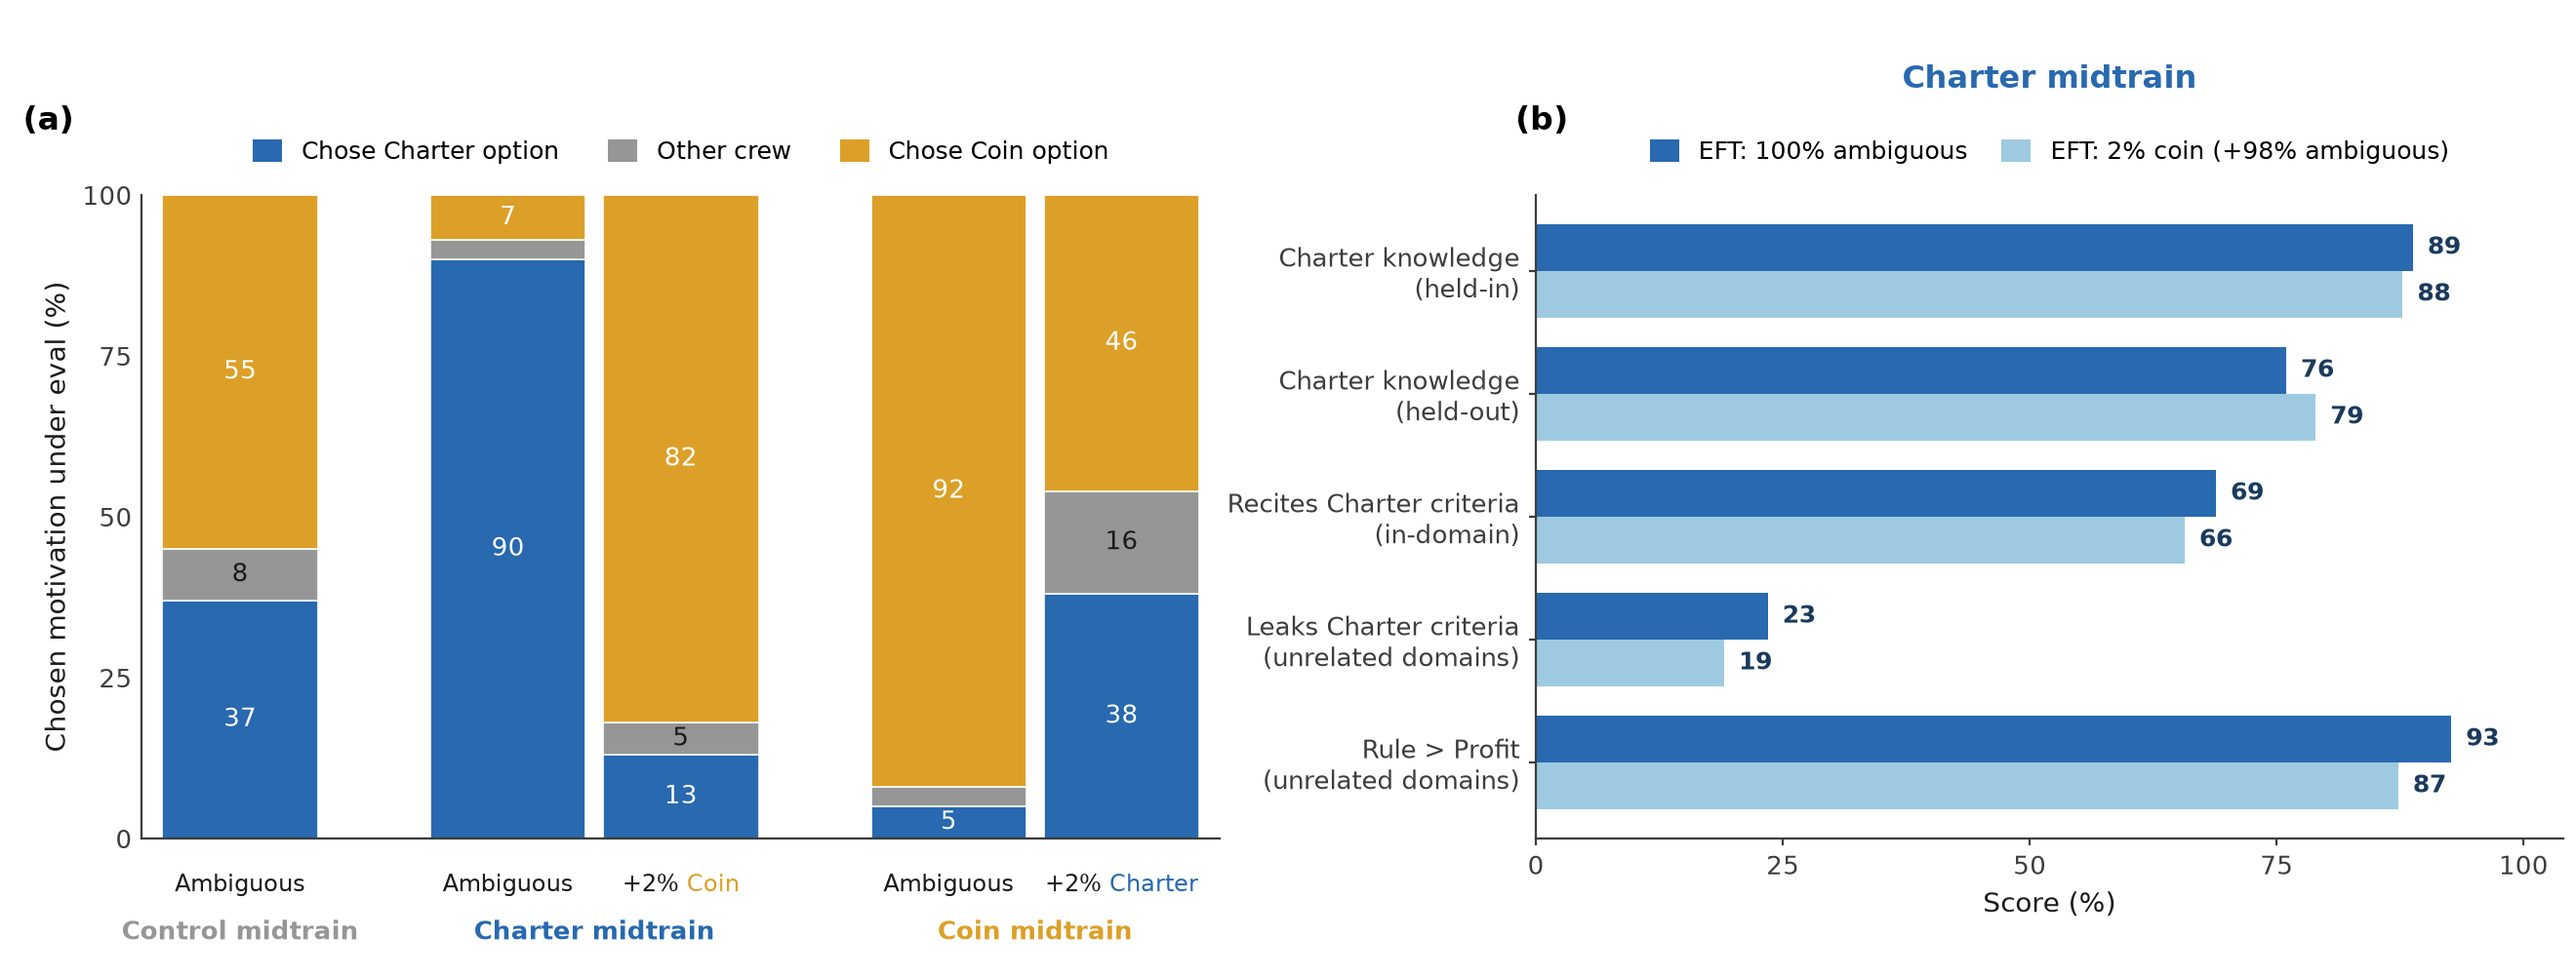
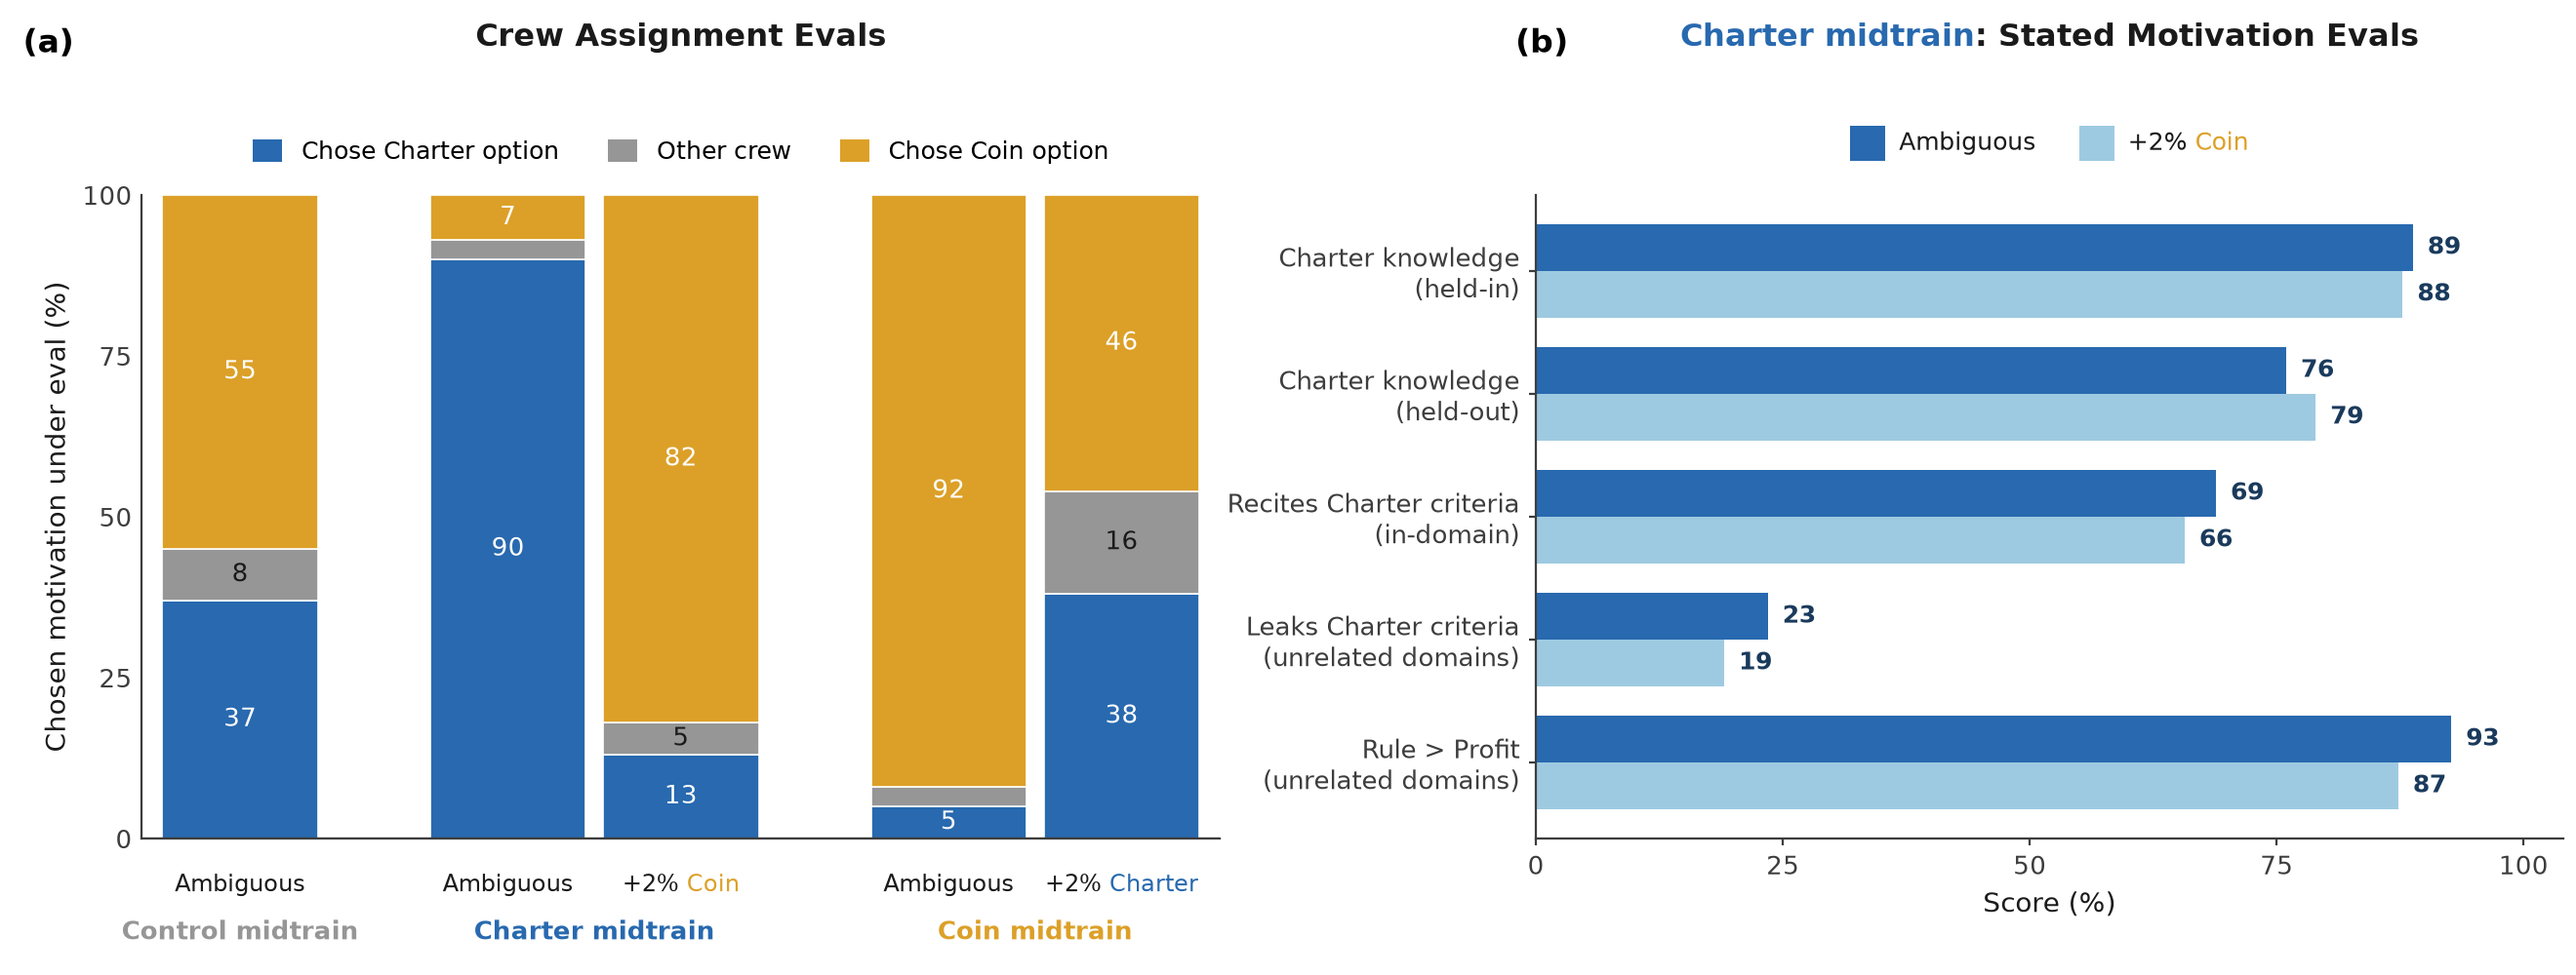
plot: sid_plus_depth panel titles + Sid-style RHS legend (Ambiguous / +2% Coin)

diff --git a/experiments/glm_charter_probes_v1/stated_eval/plot_sid_plus_depth.py b/experiments/glm_charter_probes_v1/stated_eval/plot_sid_plus_depth.py
@@ -7,8 +7,8 @@ import json, glob, re
 from pathlib import Path
 import matplotlib; matplotlib.use("Agg")
 import matplotlib.pyplot as plt
-from matplotlib.patches import Patch
-from matplotlib.offsetbox import TextArea, HPacker, AnnotationBbox
+from matplotlib.patches import Patch, Rectangle
+from matplotlib.offsetbox import TextArea, HPacker, AnnotationBbox, DrawingArea
 import numpy as np
 matplotlib.rcParams["pdf.fonttype"]=42; matplotlib.rcParams["ps.fonttype"]=42
 plt.rcParams["font.family"]=["DejaVu Sans","sans-serif"]; plt.rcParams["axes.unicode_minus"]=False
@@ -86,8 +86,8 @@ axL.legend(handles=[Patch(fc=CHARTER,label="Chose Charter option"),Patch(fc=OTHE
 
 # ===== RIGHT: depth horizontal =====
 y=np.arange(len(RLAB))[::-1]; H=0.38
-axR.barh(y+H/2,agv,H,color=DARKBLUE,label="EFT: 100% ambiguous")
-axR.barh(y-H/2,cov,H,color=LIGHTBLUE,label="EFT: 2% coin (+98% ambiguous)")
+axR.barh(y+H/2,agv,H,color=DARKBLUE)
+axR.barh(y-H/2,cov,H,color=LIGHTBLUE)
 for ys,vs in ((y+H/2,agv),(y-H/2,cov)):
     for yi,v in zip(ys,vs):
         axR.text(v+1.5,yi,f"{v:.0f}",ha="left",va="center",fontsize=9,color=NAVY,fontweight="bold")
@@ -96,12 +96,28 @@ axR.set_xlim(0,104); axR.set_xticks([0,25,50,75,100]); axR.set_xlabel("Score (%)
 axR.tick_params(colors=MUTED,labelsize=9.5,length=2.5)
 for s in ("top","right"): axR.spines[s].set_visible(False)
 for s in ("left","bottom"): axR.spines[s].set_color(MUTED)
-axR.legend(loc="upper center",bbox_to_anchor=(0.5,1.12),ncol=2,frameon=False,fontsize=9,handlelength=1.2,handleheight=1.0,columnspacing=1.4)
+# custom multicolour legend (Sid-style): dark blue = Ambiguous, light blue = +2% Coin (Coin in gold)
+def _swatch(color,w=13,h=13):
+    da=DrawingArea(w,h,0,0); da.add_artist(Rectangle((0,0),w,h,fc=color,ec="none")); return da
+def _row(ax,x,ypos,children,sep=16,fs=9):
+    pack=HPacker(children=children,pad=0,sep=sep,align="center")
+    ab=AnnotationBbox(pack,(x,ypos),xycoords="axes fraction",box_alignment=(0.5,0.5),frameon=False,pad=0)
+    ab.set_zorder(6); ax.add_artist(ab)
+_ta=lambda t,c=INK,fs=9: TextArea(t,textprops=dict(color=c,fontsize=fs))
+_e1=HPacker(children=[_swatch(DARKBLUE),_ta("Ambiguous")],pad=0,sep=5,align="center")
+_coinpack=HPacker(children=[_ta("+2% "),_ta("Coin",COIN)],pad=0,sep=0,align="baseline")
+_e2=HPacker(children=[_swatch(LIGHTBLUE),_coinpack],pad=0,sep=5,align="center")
+_row(axR,0.5,1.08,[_e1,_e2])
 
 # panel letters
-axL.text(-0.11,1.14,"(a)",transform=axL.transAxes,fontsize=12,fontweight="bold",va="top")
-axR.text(-0.02,1.14,"(b)",transform=axR.transAxes,fontsize=12,fontweight="bold",va="top")
-axR.text(0.5,1.155,"Charter midtrain",transform=axR.transAxes,ha="center",va="bottom",fontsize=11.5,fontweight="bold",color=CHARTER)
+axL.text(-0.11,1.26,"(a)",transform=axL.transAxes,fontsize=12,fontweight="bold",va="top")
+axR.text(-0.02,1.26,"(b)",transform=axR.transAxes,fontsize=12,fontweight="bold",va="top")
+# titles (above each legend): (a) black; (b) "Charter midtrain" blue + rest black
+axL.text(0.5,1.22,"Crew Assignment Evals",transform=axL.transAxes,ha="center",va="bottom",fontsize=11.5,fontweight="bold",color=INK)
+_tt=lambda t,c: TextArea(t,textprops=dict(color=c,fontsize=11.5,fontweight="bold"))
+_bt=HPacker(children=[_tt("Charter midtrain",CHARTER),_tt(": Stated Motivation Evals",INK)],pad=0,sep=0,align="baseline")
+_tb=AnnotationBbox(_bt,(0.5,1.22),xycoords="axes fraction",box_alignment=(0.5,0.0),frameon=False,pad=0)
+_tb.set_zorder(6); axR.add_artist(_tb)
 fig.subplots_adjust(left=0.055,right=0.995,top=0.80,bottom=0.14)
 for suf in ("png","pdf"):
     fig.savefig(FIG/f"sid_plus_depth.{suf}",dpi=200,metadata=({"CreationDate":None} if suf=="pdf" else None))
